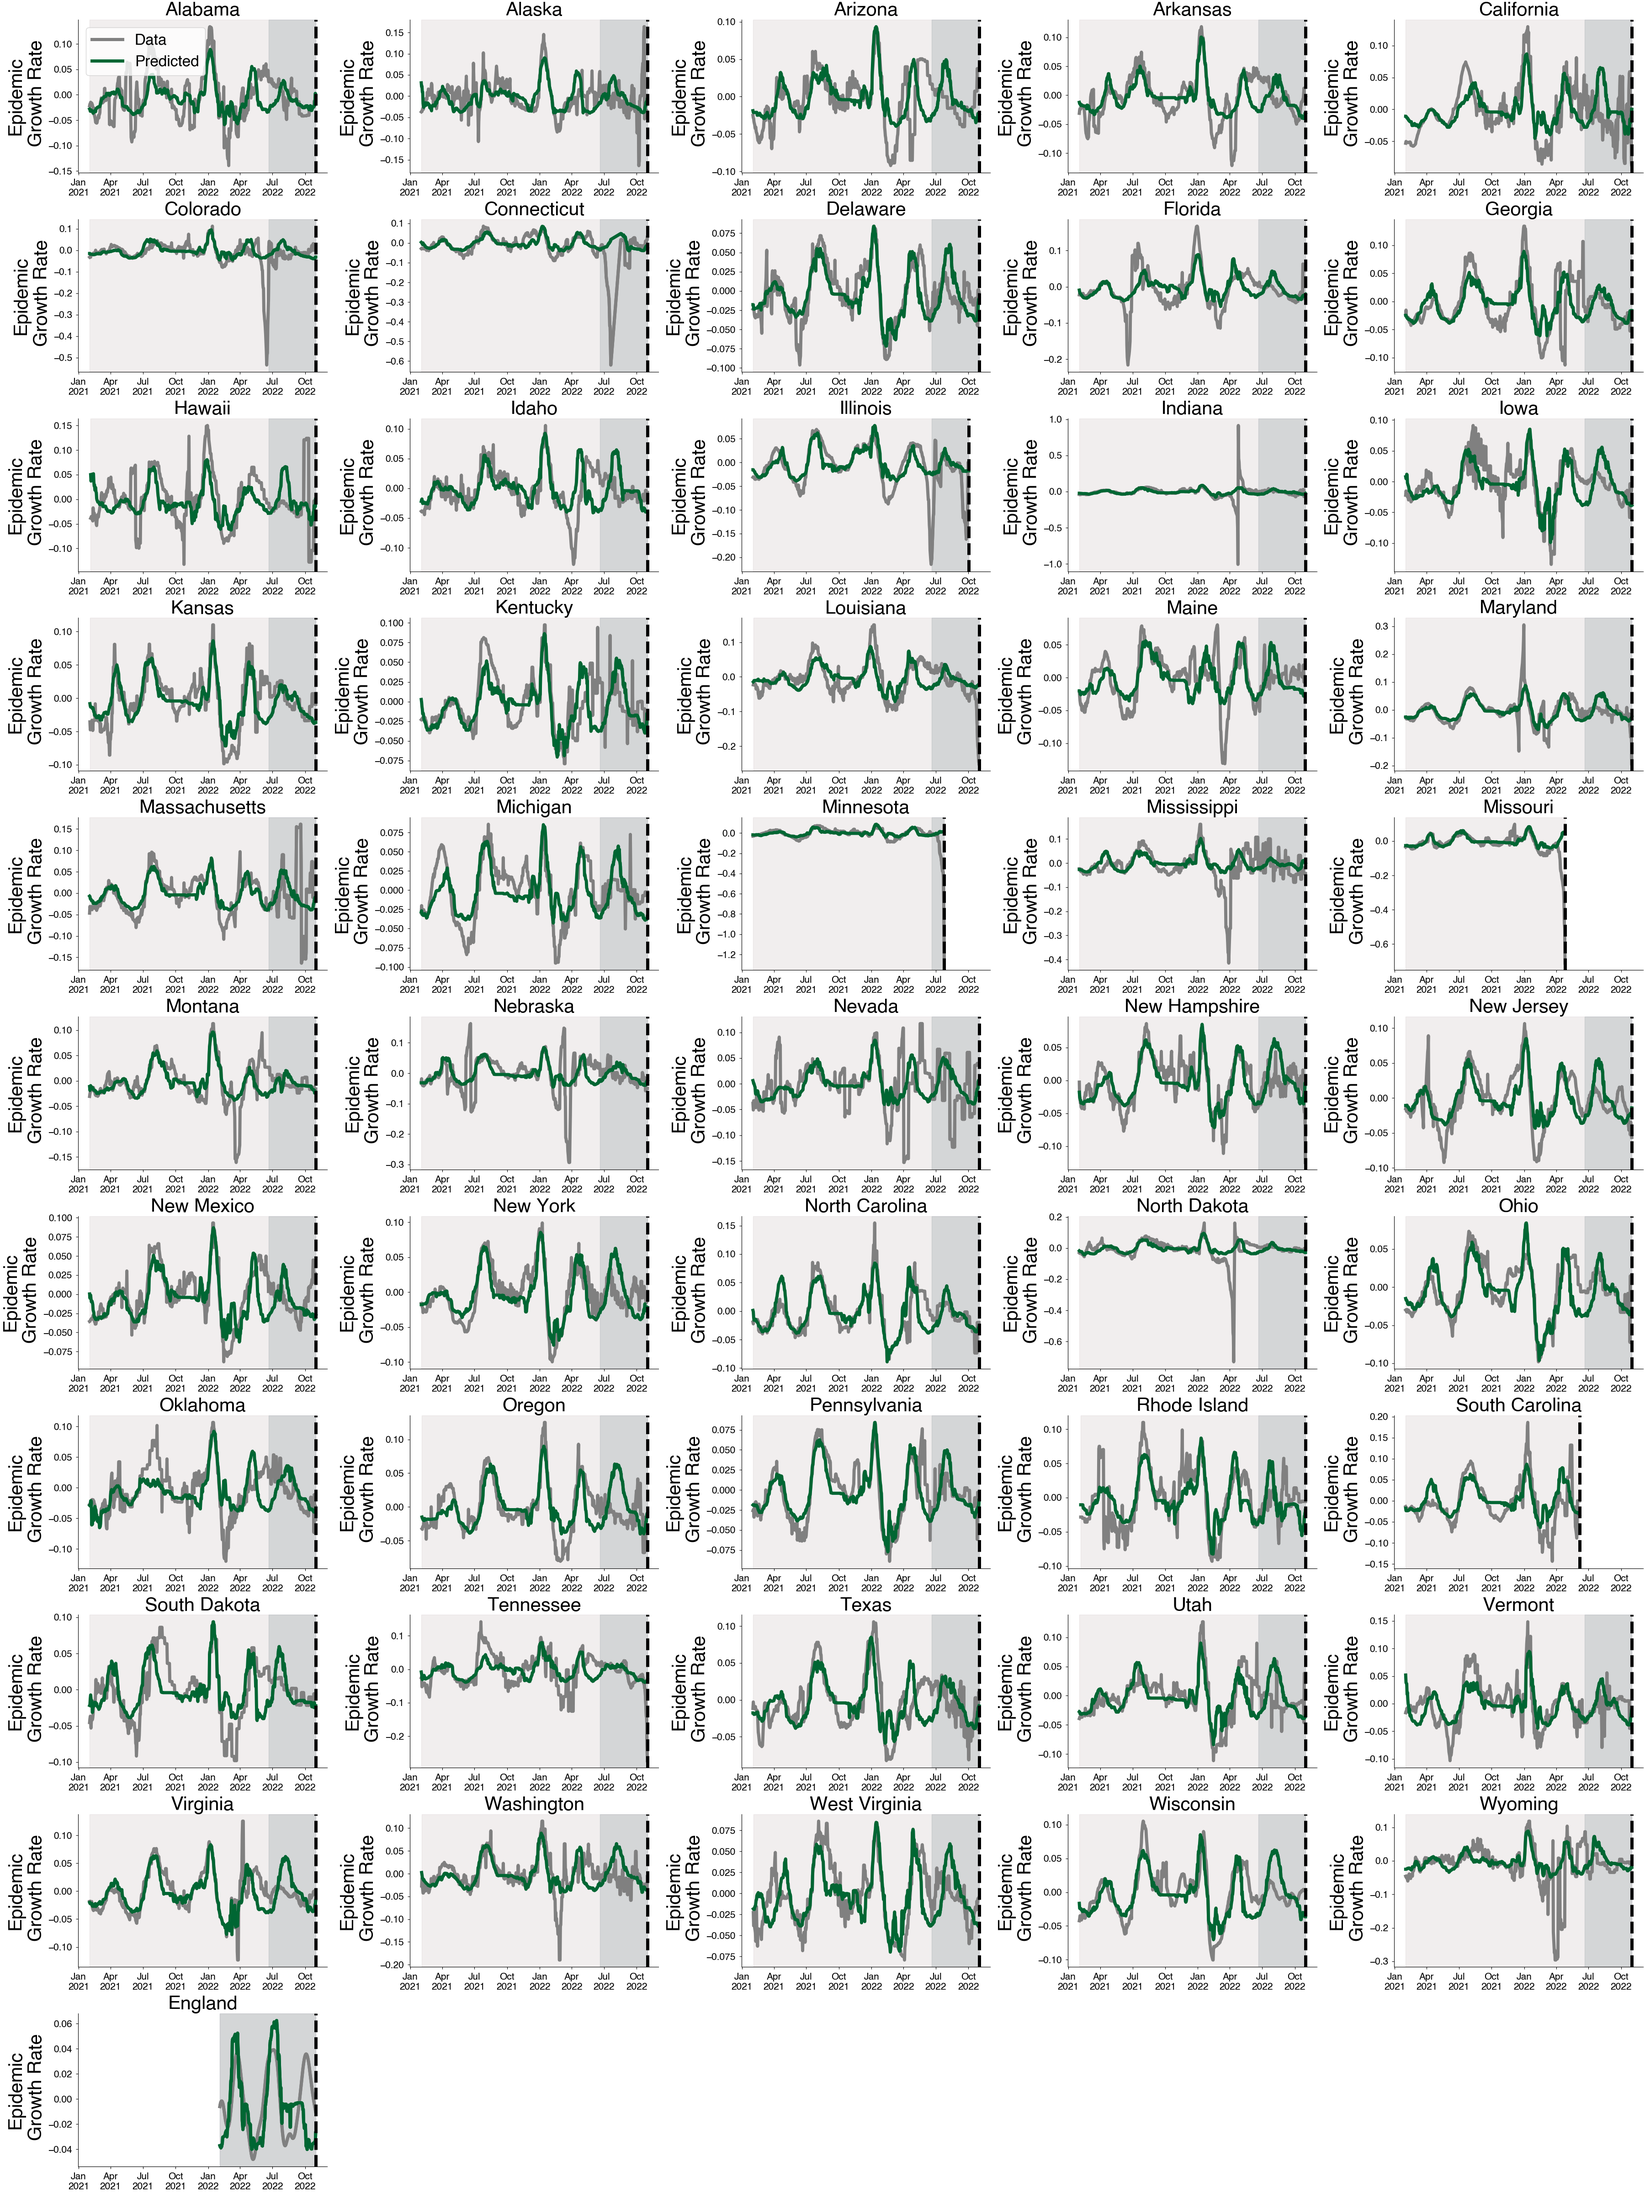
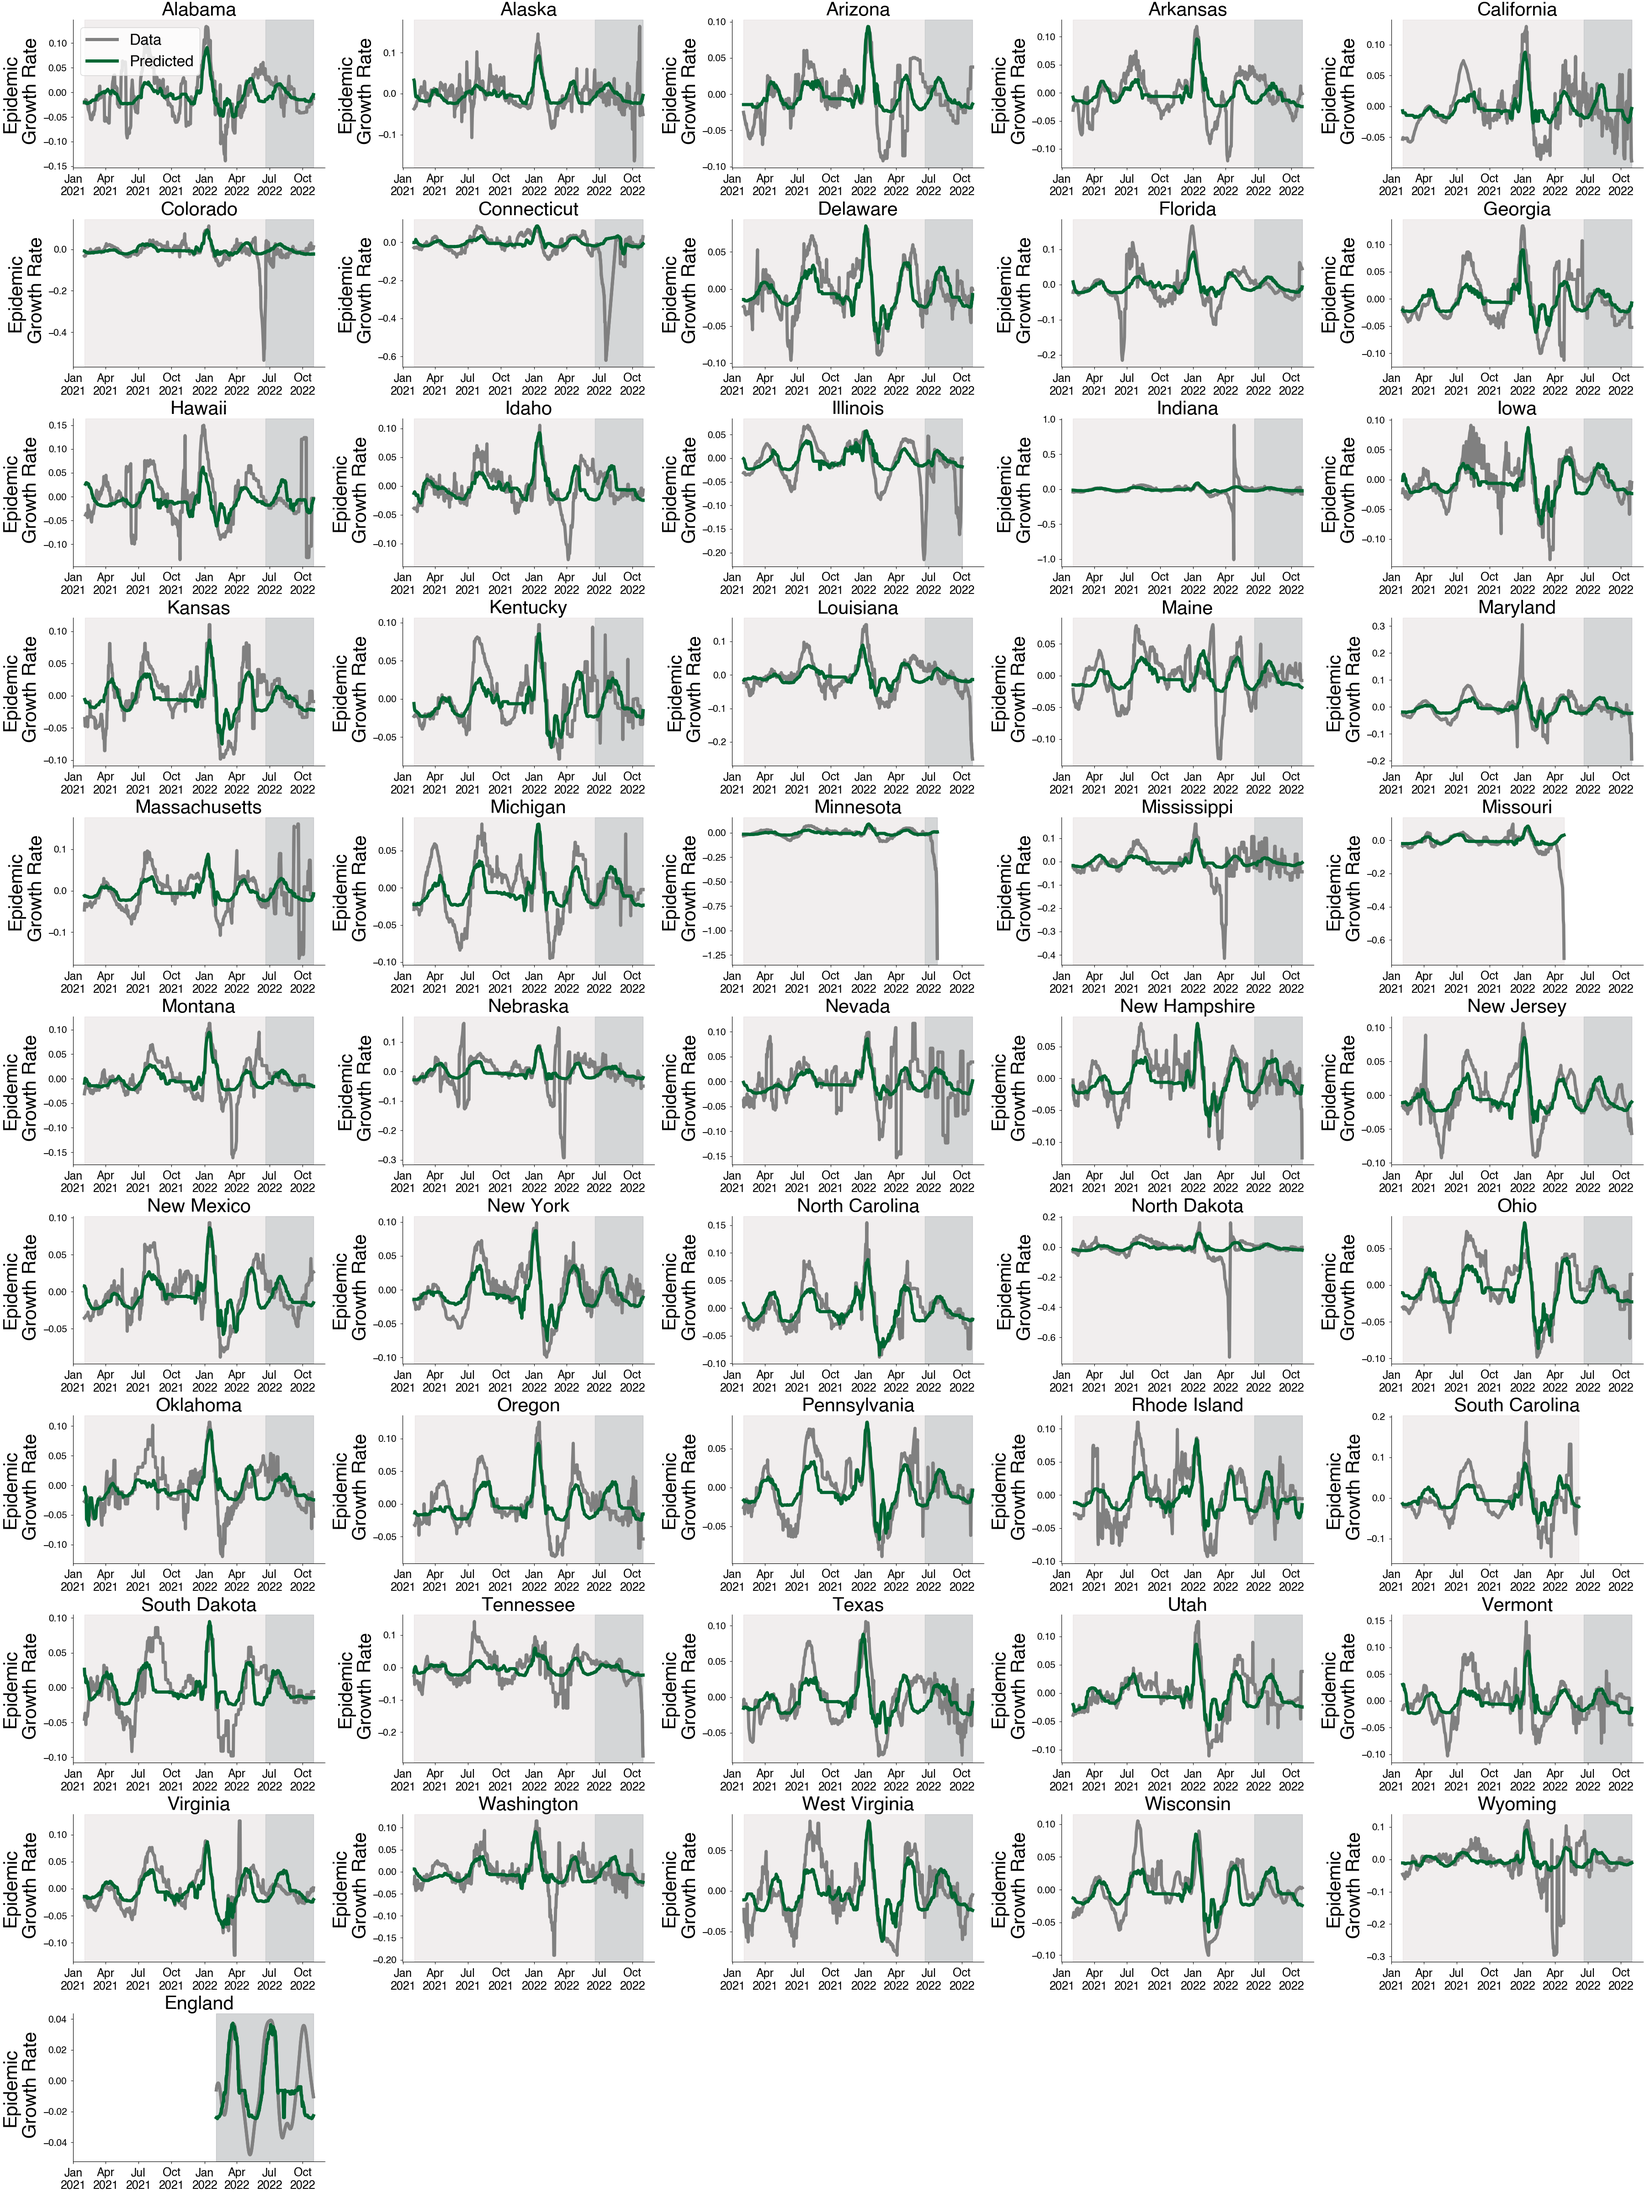
Updating selective pressure analysis

Changed region(s): [[0.0, 0.0, 0.9956, 1.0], [0.0, 0.0938, 0.0311, 0.1562], [0.0, 0.9375, 0.0311, 0.9688]]

diff --git a/manuscript/relative-fitness-mechanisms.tex b/manuscript/relative-fitness-mechanisms.tex
@@ -421,7 +421,7 @@ We use these estimates to fit a gradient-boosted regressor to predict epidemic g
 
 % \tbc{Statement on predictive performance here.}
 We validate this method by testing this model to estimate epidemic growth rates in England as derived ONS data between February 2022 and November 2022.
-Our model is able to replicate patterns seen in epidemic growth rates in England derived from ONS data (Fig.~\ref{fig:selective_pressure_prediction} J--L), achieving a Spearman correlation of $R^2 = 0.306$ and mean absolute error of 0.022.
+Our model is able to replicate patterns seen in epidemic growth rates in England derived from ONS data (Fig.~\ref{fig:selective_pressure_prediction} J--L), achieving a Spearman correlation of $R^2 = 0.377$ and mean absolute error of 0.016.
 Performance is significantly better for the first two subsequent waves, falling off in accuracy starting August 2022.
 
 Though these predictions can be biased by non-evolutionary effects on the epidemic growth, this approach provides a simple measure of epidemic growth in the absence of high quality case counts using sequence data alone.
@@ -438,14 +438,14 @@ Though these predictions can be biased by non-evolutionary effects on the epidem
       A. Variant frequency estimated using the Gaussian process relative fitness model between January 2021 and November 2022.
       B. Case counts from Washington state.
       C. Selective pressure computed using estimated variant frequencies and relative fitness from Washington state.
-      \tbc{Label panels A and C with `Washington' as well.}
+      % \tbc{Label panels A and C with `Washington' as well.}
       D-I. Predictions for empirical growth rate from selective pressure for selected US states.
       The light gray period is the training period and the darker gray is the testing period.
-      \tbc{I think the dashed line got accidently moved to the end of the time series? I suggest actually  dropping the vertical dashed lines and instead relying on lighter / darker background shading to denote training vs test split.}
+      % \tbc{I think the dashed line got accidently moved to the end of the time series? I suggest actually  dropping the vertical dashed lines and instead relying on lighter / darker background shading to denote training vs test split.}
       G. Estimated selective pressure in England.
       H. Prevalence estimates for England.
       I. Empirical growth rates (gray) computed from prevalence estimates in H. and predictions from our model (green).
-      \tbc{Same statment about slightly increasing font size of tick labels.}
+      % \tbc{Same statment about slightly increasing font size of tick labels.}
     }
     \label{fig:selective_pressure_prediction}
 \end{figure}
